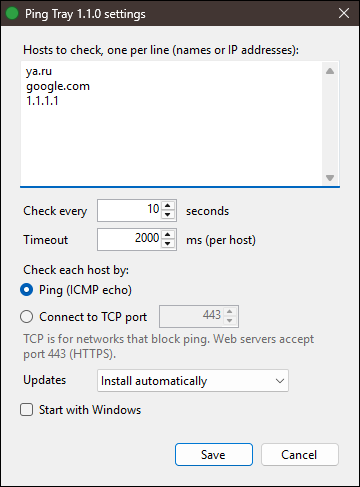
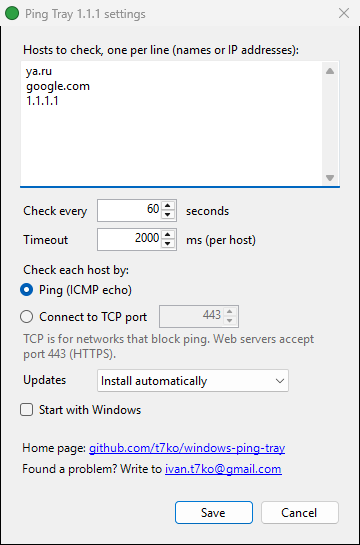
Ping Tray 1.1.1: Report a problem, Home page, check once a minute
The tray menu has Home page (the GitHub project) and Report a problem,
which opens a mail to ivan.t7ko@gmail.com in the user's mail app with
the version, the Windows build, the settings and the tooltip filled in.
The Settings window links to both, and the README tells how to report
problems.

Hosts are checked once a minute by default instead of every 10 seconds;
network changes still trigger a check at once. Settings files that name
an interval keep it.

Changed region(s): [[0.0, 0.308, 1.0, 1.0], [0.0, 0.0, 1.0, 0.2156], [0.8861, 0.1232, 0.9472, 0.154]]

diff --git a/src/Links.cs b/src/Links.cs
@@ -1,0 +1,92 @@
+using System;
+using System.Diagnostics;
+using System.Text;
+using System.Windows.Forms;
+using Microsoft.Win32;
+
+namespace PingTray
+{
+    /// <summary>
+    /// The home page, and "Report a problem": a new mail to the author in the user's mail app,
+    /// with the facts that help already filled in. The user adds what happened and sends it.
+    /// </summary>
+    public static class Links
+    {
+        public const string HomePage = "https://github.com/" + Updater.Repository;
+        public const string BugAddress = "ivan.t7ko@gmail.com";
+
+        public static void OpenHomePage()
+        {
+            try
+            {
+                using (Process.Start(HomePage)) { }
+            }
+            catch (Exception)
+            {
+                MessageBox.Show("No web browser could open " + HomePage + ".", "Ping Tray",
+                    MessageBoxButtons.OK, MessageBoxIcon.Information);
+            }
+        }
+
+        public static void ReportProblem(Settings settings, string tooltip)
+        {
+            try
+            {
+                using (Process.Start(BugReportUrl(settings, tooltip))) { }
+            }
+            catch (Exception)
+            {
+                try
+                {
+                    Clipboard.SetText(BugAddress);
+                }
+                catch (Exception)
+                {
+                    // the clipboard is busy; the address is in the message anyway
+                }
+                MessageBox.Show("No mail app could open a message. Please write to " + BugAddress +
+                    " (it is on the clipboard): what happened, what you expected, and that this is Ping Tray " +
+                    Updater.Text(Updater.CurrentVersion) + ".", "Ping Tray", MessageBoxButtons.OK, MessageBoxIcon.Information);
+            }
+        }
+
+        public static string BugReportUrl(Settings settings, string tooltip)
+        {
+            string version = Updater.Text(Updater.CurrentVersion);
+            var body = new StringBuilder();
+            body.Append("What happened, and what did you expect?\r\n\r\n\r\n");
+            body.Append("Ping Tray " + version + " on Windows " + WindowsVersion() + "\r\n");
+            body.Append("Checks: " + (settings.Method == CheckMethod.Tcp ? "TCP port " + settings.TcpPort : "ping") +
+                " every " + settings.IntervalSeconds + " s, timeout " + settings.TimeoutMs + " ms; updates: " +
+                settings.Updates.ToString().ToLowerInvariant() + "\r\n");
+            body.Append("Hosts: " + string.Join(", ", settings.Hosts) + "\r\n");
+            body.Append("Tooltip:\r\n" + tooltip.Replace("\n", "\r\n") + "\r\n");
+            return "mailto:" + BugAddress + "?subject=" + Uri.EscapeDataString("Ping Tray " + version + ": a problem") +
+                "&body=" + Uri.EscapeDataString(body.ToString());
+        }
+
+        /// <summary>
+        /// Such as "build 26300.6899 (25H2)", from the registry: Environment.OSVersion says 6.2
+        /// (Windows 8) to any program whose manifest does not declare Windows 10.
+        /// </summary>
+        static string WindowsVersion()
+        {
+            try
+            {
+                using (RegistryKey key = Registry.LocalMachine.OpenSubKey(@"SOFTWARE\Microsoft\Windows NT\CurrentVersion"))
+                {
+                    object build = key.GetValue("CurrentBuildNumber"), patch = key.GetValue("UBR"),
+                        release = key.GetValue("DisplayVersion");
+                    if (build != null)
+                        return "build " + build + (patch != null ? "." + patch : "") +
+                            (release != null ? " (" + release + ")" : "");
+                }
+            }
+            catch (Exception)
+            {
+                // fall through
+            }
+            return Environment.OSVersion.Version.ToString();
+        }
+    }
+}

diff --git a/tests/Tests.cs b/tests/Tests.cs
@@ -27,6 +27,7 @@ namespace PingTray.Tests
             IconTests();
             PingerTests();
             UpdaterTests(args[0]);
+            LinksTests();
             Console.WriteLine(failures == 0 ? "All tests passed." : failures + " test(s) failed.");
             return failures == 0 ? 0 : 1;
         }
@@ -93,6 +94,20 @@ namespace PingTray.Tests
 
             Equal(SecurityProtocolType.SystemDefault, ServicePointManager.SecurityProtocol,
                 "HTTPS uses the TLS versions of Windows (the TargetFramework attribute works)");
+        }
+
+        static void LinksTests()
+        {
+            Equal("https://github.com/t7ko/windows-ping-tray", Links.HomePage, "the home page");
+            string url = Links.BugReportUrl(new Settings(), "Online\n× a: timeout");
+            Equal(true, url.StartsWith("mailto:ivan.t7ko@gmail.com?subject="), "a mail to the author");
+            Equal(false, url.Contains(" ") || url.Contains("\n"), "nothing is left unescaped");
+            string body = Uri.UnescapeDataString(url.Substring(url.IndexOf("&body=", StringComparison.Ordinal) + 6));
+            Equal(true, body.Contains("Ping Tray " + Updater.Text(Updater.CurrentVersion) + " on Windows build "),
+                "the versions of Ping Tray and Windows: " + body.Split('\r')[3]);
+            Equal(true, body.Contains("Checks: ping every 60 s, timeout 2000 ms; updates: auto"), "the settings");
+            Equal(true, body.Contains("Hosts: ya.ru, google.com, 1.1.1.1"), "the hosts");
+            Equal(true, body.Contains("Tooltip:\r\nOnline\r\n× a: timeout"), "the tooltip, with Windows line ends");
         }
 
         static string Sha256(string path)
@@ -167,6 +182,7 @@ namespace PingTray.Tests
             Settings bad = Settings.Parse("interval_seconds=abc\n");
             Equal(0, bad.Hosts.Count, "a file without hosts means no hosts");
             Equal(new Settings().IntervalSeconds, bad.IntervalSeconds, "a bad number keeps the default");
+            Equal(60, new Settings().IntervalSeconds, "a check a minute by default");
             Equal("ya.ru google.com 1.1.1.1", string.Join(" ", new Settings().Hosts), "default hosts");
         }
 

diff --git a/src/TrayApp.cs b/src/TrayApp.cs
@@ -25,6 +25,7 @@ namespace PingTray
         Release update;  // a newer release, found but not installed yet
         DateTime lastUpdateCheck = DateTime.MinValue;  // UTC
         bool checkingUpdate, installing;
+        string tooltip = "";  // as shown, for problem reports
 
         /// <param name="updated">Whether an update has just started this instance.</param>
         public TrayApp(bool updated)
@@ -42,6 +43,9 @@ namespace PingTray
             menu.Items.Add("Check connection now", null, delegate { Check(true); });
             menu.Items.Add(settingsItem);
             menu.Items.Add(updateItem);
+            menu.Items.Add(new ToolStripSeparator());
+            menu.Items.Add("Home page", null, delegate { Links.OpenHomePage(); });
+            menu.Items.Add("Report a problem…", null, delegate { ReportProblem(); });
             menu.Items.Add(new ToolStripSeparator());
             menu.Items.Add("Exit", null, delegate { ExitThread(); });
 
@@ -145,6 +149,7 @@ namespace PingTray
         {
             if (text.Length > StatusReport.MaxTooltipLength)
                 text = text.Substring(0, StatusReport.MaxTooltipLength);
+            tooltip = text;
             const BindingFlags hidden = BindingFlags.NonPublic | BindingFlags.Instance;
             FieldInfo textField = typeof(NotifyIcon).GetField("text", hidden);
             FieldInfo addedField = typeof(NotifyIcon).GetField("added", hidden);
@@ -163,12 +168,17 @@ namespace PingTray
         {
             if (settingsForm == null)
             {
-                settingsForm = new SettingsForm(settings);
+                settingsForm = new SettingsForm(settings, ReportProblem);
                 settingsForm.Saved += ApplySettings;
                 settingsForm.FormClosed += delegate { settingsForm = null; };
                 settingsForm.Show();
             }
             settingsForm.Activate();
+        }
+
+        void ReportProblem()
+        {
+            Links.ReportProblem(settings, tooltip);
         }
 
         void ApplySettings(Settings saved)

diff --git a/src/SettingsForm.cs b/src/SettingsForm.cs
@@ -17,7 +17,8 @@ namespace PingTray
         readonly CheckBox autostartBox;
         readonly bool autostartWas;
 
-        public SettingsForm(Settings settings)
+        /// <param name="reportProblem">Opens a problem report (it needs the tray's tooltip).</param>
+        public SettingsForm(Settings settings, Action reportProblem)
         {
             Text = "Ping Tray " + Updater.Text(Updater.CurrentVersion) + " settings";
             Font = SystemFonts.MessageBoxFont;
@@ -122,6 +123,11 @@ namespace PingTray
             layout.SetColumnSpan(updatesBox, 2);
             updatesLabel.Margin = updatesBox.Margin = new Padding(3, em / 2, 3, 3);
             AddWide(layout, autostartBox);
+            string homePage = Links.HomePage.Replace("https://", "");
+            LinkLabel homeLink = Link("Home page: " + homePage, homePage, Links.OpenHomePage);
+            homeLink.Margin = new Padding(3, em, 3, 0);
+            AddWide(layout, homeLink);
+            AddWide(layout, Link("Found a problem? Write to " + Links.BugAddress, Links.BugAddress, reportProblem));
             AddWide(layout, buttons);
             Controls.Add(layout);
 
@@ -174,6 +180,15 @@ namespace PingTray
             if (Saved != null)
                 Saved(settings);
             Close();
+        }
+
+        /// <summary>A label whose last words, linkText, are a link.</summary>
+        static LinkLabel Link(string text, string linkText, Action open)
+        {
+            var link = new LinkLabel { Text = text, AutoSize = true, Anchor = AnchorStyles.Left };
+            link.LinkArea = new LinkArea(text.Length - linkText.Length, linkText.Length);
+            link.LinkClicked += delegate { open(); };
+            return link;
         }
 
         static Label Caption(string text)

diff --git a/src/Program.cs b/src/Program.cs
@@ -4,10 +4,10 @@ using System.Runtime.Versioning;
 using System.Threading;
 using System.Windows.Forms;
 
-// The version of a release: scripts/release.ps1 tags it v1.1.0, and Updater compares it with the
-// latest tag on GitHub.
-[assembly: AssemblyVersion("1.1.0.0")]
-[assembly: AssemblyFileVersion("1.1.0.0")]
+// The version of a release: scripts/release.ps1 tags 1.2.3.0 as v1.2.3, and Updater compares it
+// with the latest tag on GitHub.
+[assembly: AssemblyVersion("1.1.1.0")]
+[assembly: AssemblyFileVersion("1.1.1.0")]
 [assembly: AssemblyTitle("Ping Tray")]
 [assembly: AssemblyDescription("Shows in the notification area whether the internet is reachable")]
 [assembly: AssemblyProduct("Ping Tray")]

diff --git a/src/Settings.cs b/src/Settings.cs
@@ -30,7 +30,7 @@ namespace PingTray
         public const int MinPort = 1, MaxPort = 65535;
 
         public List<string> Hosts = new List<string> { "ya.ru", "google.com", "1.1.1.1" };
-        public int IntervalSeconds = 10;
+        public int IntervalSeconds = 60;  // network changes trigger a check sooner
         public int TimeoutMs = 2000;
         public CheckMethod Method = CheckMethod.Ping;
         public int TcpPort = 443;  // used when Method is Tcp

diff --git a/README.md b/README.md
@@ -44,12 +44,14 @@ tray icons.
 
 - Hover over the icon: the ping time of each host.
 - Double-click it: Settings.
-- Right-click it: Check connection now, Settings, Check for updates, Exit.
+- Right-click it: Check connection now, Settings, Check for updates, Home page (this
+  page), Report a problem, Exit.
 
 Settings has the hosts to check, one per line (host names or IP addresses; a pasted URL
 such as `https://ya.ru/` is cut down to its host), how often to check them (1 to 3600
-seconds), how long to wait for each answer (100 to 10000 ms), how to check them (ping,
-or a TCP connection to a port), what to do with updates, and Start with Windows.
+seconds; once a minute by default), how long to wait for each answer (100 to 10000 ms),
+how to check them (ping, or a TCP connection to a port), what to do with updates, and
+Start with Windows.
 
 ![The Settings window](docs/settings.png)
 
@@ -91,6 +93,14 @@ release of this repository. What it does with a newer one depends on Settings > 
 Before installing, Ping Tray checks that the download has the size and SHA-256 that
 GitHub lists for the release and that it is Ping Tray of the announced version. If
 anything fails, the running version stays and a notification says why.
+
+## Reporting problems
+
+Right-click the icon and choose Report a problem, or click the address at the bottom of
+Settings. That opens a new mail to <ivan.t7ko@gmail.com> in your mail app, with the
+version, the Windows version, the settings and the current tooltip already in it. Add
+what happened and what you expected, and send it. Without a mail app, write to that
+address directly and mention the version: it is in the title of the Settings window.
 
 ## Building
 

diff --git a/AGENTS.md b/AGENTS.md
@@ -20,6 +20,8 @@ in `../AGENTS.md`, outside this repository, as are machine details: the git-igno
 - `src/SettingsForm.cs`: the settings window, built in code (there is no designer).
 - `src/Autostart.cs`: the `HKCU\...\Run` value behind Start with Windows.
 - `src/Updater.cs`: GitHub's latest-release API, download, checks, and swapping the exe.
+- `src/Links.cs`: the home page, and Report a problem: a `mailto:` to the user's personal
+  address with the version, settings and tooltip filled in.
 - `src/StatusIcons.cs`: draws the icons as .ico data. `scripts/build.ps1` loads this file
   with `Add-Type` to write the exe's icon, so it must compile on its own.
 - `tests/Tests.cs`: a console test runner with no framework. `scripts/build.ps1` builds
